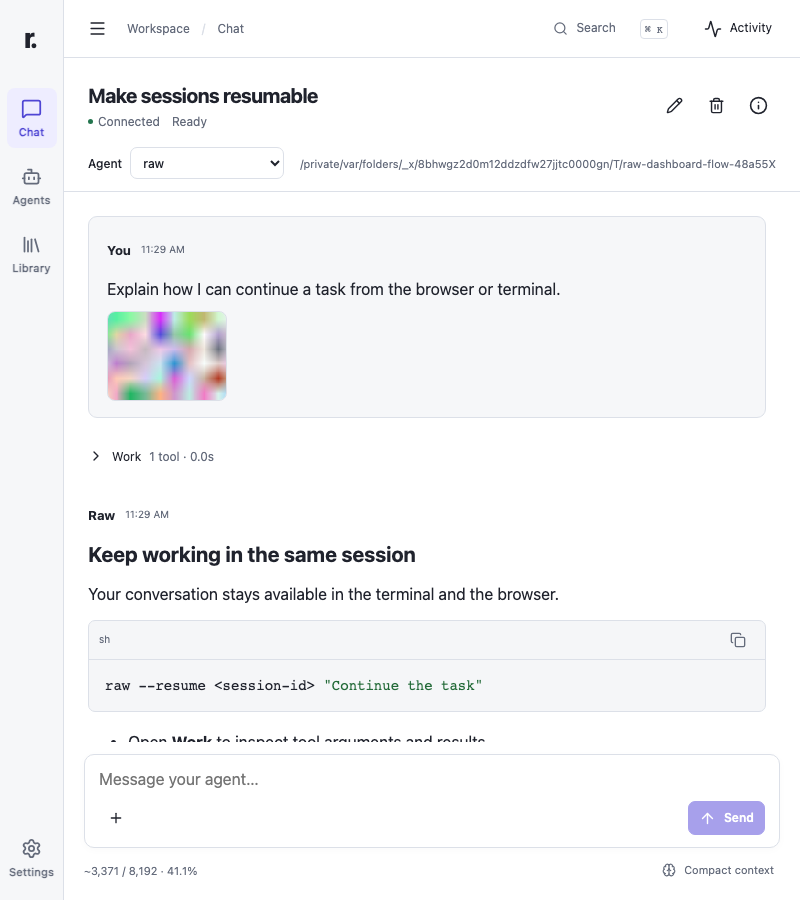
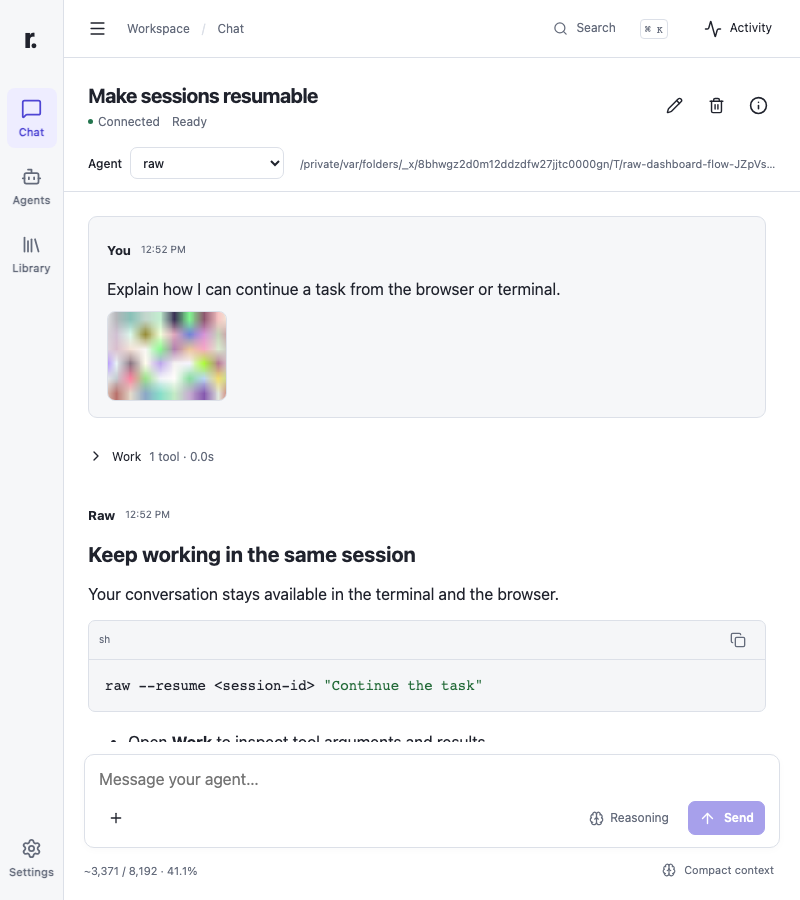
docs: document dashboard reasoning and service tier controls

diff --git a/tests/dashboard-ui/capture.ts b/tests/dashboard-ui/capture.ts
@@ -95,6 +95,7 @@ try {
       await page
         .getByRole("heading", { name: "Keep working in the same session" })
         .waitFor();
+      await page.locator(".request-pill").waitFor();
       await page.locator(".conversation-scroll").evaluate((element) => {
         element.scrollTop = 0;
       });
@@ -117,6 +118,18 @@ try {
     animations: "disabled",
   });
   await page.getByLabel("Message", { exact: true }).fill("");
+  await page.locator(".request-pill").click();
+  await page.getByRole("slider", { name: "Reasoning" }).focus();
+  await page.keyboard.press("ArrowRight");
+  await page.keyboard.press("ArrowRight");
+  await page.keyboard.press("ArrowRight");
+  await page.getByRole("radio", { name: /^priority/ }).click();
+  await page.locator(".request-popover").waitFor();
+  await page.screenshot({
+    path: "docs/dashboard/chat-dark-controls.png",
+    animations: "disabled",
+  });
+  await page.keyboard.press("Escape");
   await page.getByRole("button", { name: "Session details" }).click();
   await page.getByRole("heading", { name: "Context", exact: true }).waitFor();
   await page.screenshot({

diff --git a/tests/dashboard-assets.test.ts b/tests/dashboard-assets.test.ts
@@ -16,7 +16,7 @@ test("built browser entry and local module assets are served without a developme
     assert.equal(f.provider.requests.length, 0);
     // The composer ships in the static bundle, and its image loading stays within the CSP's same-origin/data: sources.
     const bundle = (await Promise.all(scripts.map(async (path) => (await fetch(f.server.url + path)).text()))).join("\n");
-    for (const text of ["Add attachment", "Drop to attach", "No matching commands", "Reference workspace file"]) assert.ok(bundle.includes(text), `bundle lacks ${text}`);
+    for (const text of ["Add attachment", "Drop to attach", "No matching commands", "Reference workspace file", "Request settings", "Agent default", "Reset"]) assert.ok(bundle.includes(text), `bundle lacks ${text}`);
     assert.match(response.headers.get("content-security-policy")!, /img-src 'self' data:(?:;|$)/);
     assert.doesNotMatch(response.headers.get("content-security-policy")!, /blob:/);
   } finally { await f.close(); }

diff --git a/web/src/styles.css b/web/src/styles.css
@@ -2037,7 +2037,7 @@ summary::-webkit-details-marker {
   color: var(--text);
 }
 .request-popover {
-  width: min(22rem, calc(100vw - 16px));
+  width: min(25rem, calc(100vw - 16px));
   max-height: min(70vh, var(--radix-popover-content-available-height));
   overflow-y: auto;
   padding: 12px 14px;
@@ -2105,8 +2105,13 @@ summary::-webkit-details-marker {
   flex: 1;
   min-width: 0;
   text-align: center;
-  overflow: hidden;
-  text-overflow: ellipsis;
+  white-space: nowrap;
+}
+@media (max-width: 599px) {
+  .slider-stops span:not(.on) {
+    overflow: hidden;
+    text-overflow: ellipsis;
+  }
 }
 .slider-stops .on {
   color: var(--accent);

diff --git a/docs/dashboard-composer-design.md b/docs/dashboard-composer-design.md
@@ -88,6 +88,19 @@ IME composition never selects or sends, `preferences.sendMode` is honored, per-s
 ### D12. Web client details
 Image bytes need the Bearer header, so the client fetches history images with `fetch` and renders `data:` URLs (`img-src 'self' data:` stays; no `blob:`). Chip thumbnails are read from the local file as `data:` too. A chip error (unsupported type, too large, server limit, expired) is local to that chip and never disables Send; only an in-flight upload does, and failed chips are simply not sent. Ready chips survive a session switch while the page lives.
 
+### D13. Per-turn reasoning and service tier
+The server describes the settings a turn may override in `GET /api/agents/:name/composer` as `controls`, built from the same value lists `requestSpec` validates (`src/request-controls.ts`), so the UI hardcodes no provider table and a provider without such settings shows no pill. A turn carries `request:{effort?, serviceTier?}`; it is validated with those lists (422 `invalid_request_option`), held in memory on the operation like turn blocks, merged into the model config by `attachSessionRuntime` for that operation only, and never written to config, `session_operations` or receipts. A duplicate `clientRequestId` returns the original receipt before the override is validated (same rule as attachments). `compact` refuses `request` (400 `invalid_input`).
+
+| Provider | Control (label) | Maps to |
+| --- | --- | --- |
+| OpenAI | Reasoning, Service tier | `reasoning_effort` (`none`…`max`), `service_tier` (`auto`, `default`, `flex`, `fast`, `priority`) |
+| Anthropic | Effort, Service tier | `effort` (`low`…`max`), `service_tier` (`auto`, `standard_only`) |
+| DeepSeek | Reasoning | `reasoning_effort` (`low`, `high`, `max`) and forces `thinking` enabled |
+| Google | Thinking | `thinkingLevel` (`minimal`…`high`) and drops any configured `thinkingBudget` |
+| Other | none | none |
+
+Excluded: `reasoning_mode`, token budgets, `/reasoning` and `/tier` commands, per-model filtering. The client remembers the choice per session in `sessionStorage` and defaults to "Agent default". Support is never guessed: the chosen value is sent, a provider rejection fails only that turn (the timeline shows `error · <provider message>`), and Agent default is always selectable. While metadata loads or fails the saved choice is kept but neither shown nor sent; it is pruned only after the selected agent's controls have loaded and no longer offer it.
+
 ## Limits
 
 | Item | Value |
@@ -128,3 +141,5 @@ If a step beyond these is needed, the design has regressed; fix the registry rat
 | D5 (web) | `tests/web-attachment-kinds.test.ts` (fake kind through the registry), `tests/dashboard-ui/attachments.spec.ts` |
 | D9, D10, D11 | `tests/dashboard-ui/composer.spec.ts`, `chat.spec.ts`, `accessibility.spec.ts` |
 | D12, image flow end to end | `tests/dashboard-ui/attachments.spec.ts`, `tests/dashboard-installed.test.ts` (installed artifact), `tests/dashboard-assets.test.ts` (bundle and CSP) |
+| D13 (server) | `tests/request-controls.test.ts`, `tests/dashboard-request-controls.test.ts` |
+| D13 (web) | `tests/web-request-choice.test.ts`, `tests/dashboard-ui/request-controls.spec.ts` |

diff --git a/add-dashboard-reasoning-and-service-tier-controls-plan.md b/add-dashboard-reasoning-and-service-tier-controls-plan.md
@@ -228,9 +228,9 @@ Screenshots regenerated by running the capture script (content differs), not cop
 Do not push, publish or install globally; do not hand-edit generated mirrors.
 
 ### Acceptance criteria
-- [ ] AC-1: Docs and design record match routes, fields, labels, mapping and exclusions — proven by inspection against Phase 1–2 tests.
-- [ ] AC-2: Refreshed screenshots show the pill and the open popover at desktop/tablet/narrow, light and dark — proven by the capture run.
-- [ ] AC-3: Packaged artifact passes the package gates with the new UI — proven by `test:package`.
+- [x] AC-1: Docs and design record match routes, fields, labels, mapping and exclusions — proven by inspection against Phase 1–2 tests.
+- [x] AC-2: Refreshed screenshots show the pill and the open popover at desktop/tablet/narrow, light and dark — proven by the capture run.
+- [x] AC-3: Packaged artifact passes the package gates with the new UI — proven by `test:package`.
 
 ### Focused verification
 `npm run build && node --import tsx --test tests/dashboard-assets.test.ts && node --import tsx tests/dashboard-ui/capture.ts`
@@ -257,3 +257,4 @@ Implementation review is required; verdict must be APPROVE.
 - 2026-09-29: Plan drafted and Codex-reviewed (APPROVE) after user-approved design (per-turn override, server-described controls, pill before Send with popover slider + tier radio group, no `/` commands, config untouched).
 - 2026-09-29 Phase 1 (Codex gpt-6-astra review APPROVE in 2 rounds; 2 test findings fixed): `src/request-controls.ts` (value lists shared with `requestSpec`, descriptors, `parseRequestOverride`, `applyRequestOverride`), `SessionOperations.submit(intent, blocks?, request?)` and `attachSessionRuntime` merge, composer `controls`, turn route with replay-first ordering. Tests `tests/request-controls.test.ts` (4) and `tests/dashboard-request-controls.test.ts` (5). `npm run typecheck` clean; `npm test` 577/580 (3 baseline PTY). Note: `request` on `compact` is refused with 400 `invalid_input` like `attachments` (the plan text said 422; the existing pattern wins).
 - 2026-09-29 Phase 2 (Codex gpt-6-astra review APPROVE in 2 rounds; 4 findings fixed: tier-only pill text, generic tooltip, dashboard.md paragraph, real agent-switch test): `RequestControls.tsx`, `request-choice.ts`, `useRequestChoice.ts`, Composer `controls` slot, chat.tsx wiring, styles, fixture `extraAgents`. `tests/dashboard-ui/request-controls.spec.ts` 13 specs x 3 browsers, `tests/web-request-choice.test.ts` 5. typecheck clean; `npm test` 582/585 (3 baseline PTY); `npm run test:web` 231 passed. Deviation: the pill is absent (not default) while metadata loads or fails; the choice is retained and not sent.
+- 2026-09-29 Phase 3 (Codex gpt-6-astra review APPROVE in 2 rounds; 1 doc-link finding fixed): D13 and verification rows, evidence section, dashboard.md link, capture.ts pill + `chat-dark-controls.png`, assets test strings, regenerated screenshots (no overflow), wider popover with unclipped stop labels. typecheck clean; `npm test` 582/585 (3 baseline PTY); `test:web` 231; `test:package` 4/4.

diff --git a/docs/evidence/local-dashboard.md b/docs/evidence/local-dashboard.md
@@ -222,3 +222,16 @@ Evidence by contract:
 
 Screenshots in `docs/dashboard/` were regenerated with `node --import tsx tests/dashboard-ui/capture.ts` (desktop, tablet, narrow in light and dark, no horizontal overflow, plus `chat-dark-commands.png`). Known limits: PNG/JPEG only, uploads are workspace-independent staging (30 minutes, in memory), ACP `session/prompt` does not accept images, and qualification covers this host, local mock providers and the recorded browser versions only. The three PTY REPL tests in `tests/cli.test.ts` fail identically on the pre-change baseline (environmental) and are unrelated.
 
+## Composer reasoning and service tier controls (2026-09-29)
+
+Scope: per-turn reasoning/effort and service-tier controls per `add-dashboard-reasoning-and-service-tier-controls-plan.md` and D13 of `docs/dashboard-composer-design.md`. Each phase was committed separately after a Codex (`gpt-6-astra`) implementation review reached APPROVE.
+
+| Contract | Proof |
+| --- | --- |
+| Descriptors per provider; value lists shared with config validation; override mapping | `tests/request-controls.test.ts` |
+| Wire override for one turn only, config bytes unchanged, receipts free of the override, 422 matrix, replay-first, provider 400 then a normal turn | `tests/dashboard-request-controls.test.ts` |
+| Pill, slider, radio group, keyboard, axe, persistence, pruning after agent switch, rejected choice, narrow viewports | `tests/dashboard-ui/request-controls.spec.ts` on chromium, firefox and webkit; `tests/web-request-choice.test.ts` |
+| Installed tarball carries the UI | `npm run test:package` |
+
+Screenshots were regenerated with `node --import tsx tests/dashboard-ui/capture.ts` (the pill is visible in every chat screenshot; `chat-dark-controls.png` shows the open popover). Known limits: options are not filtered per model, so a model that rejects a value fails that turn with the provider's message; qualification covers local mock providers only.
+

diff --git a/docs/dashboard.md b/docs/dashboard.md
@@ -54,7 +54,7 @@ These screenshots use a disposable workspace and a mock provider. Reproduce them
 | Tablet, 800×900 | [View](dashboard/chat-light-tablet.png) | [View](dashboard/chat-dark-tablet.png) |
 | Narrow, 320×900 | [View](dashboard/chat-light-narrow.png) | [View](dashboard/chat-dark-narrow.png) |
 
-[Command suggestions](dashboard/chat-dark-commands.png) show the `/` list above the composer; the desktop and narrow screenshots include an attached image in the conversation.
+[Command suggestions](dashboard/chat-dark-commands.png) show the `/` list above the composer, [the request settings popover](dashboard/chat-dark-controls.png) shows the reasoning slider and service tier list; the desktop and narrow screenshots include an attached image in the conversation.
 
 [Context inspector](dashboard/chat-dark-inspector.png) shows estimates, available usage, measurement coverage and the last attached capabilities. Older measurements may be unavailable or stale; viewing them does not start a model or tool.
 
